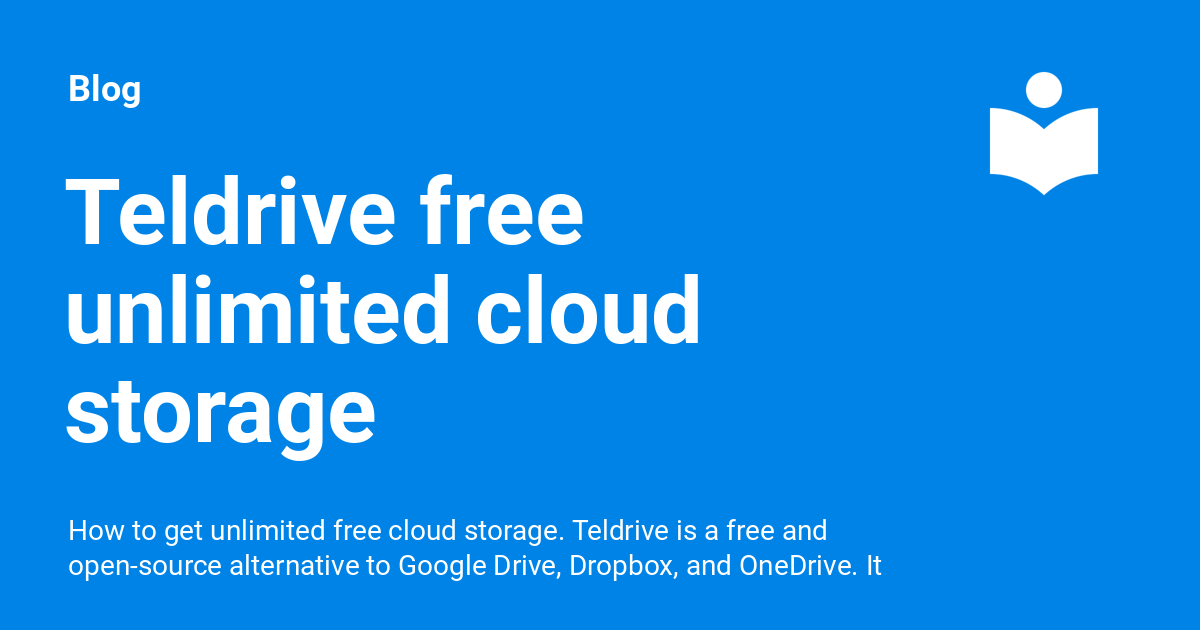
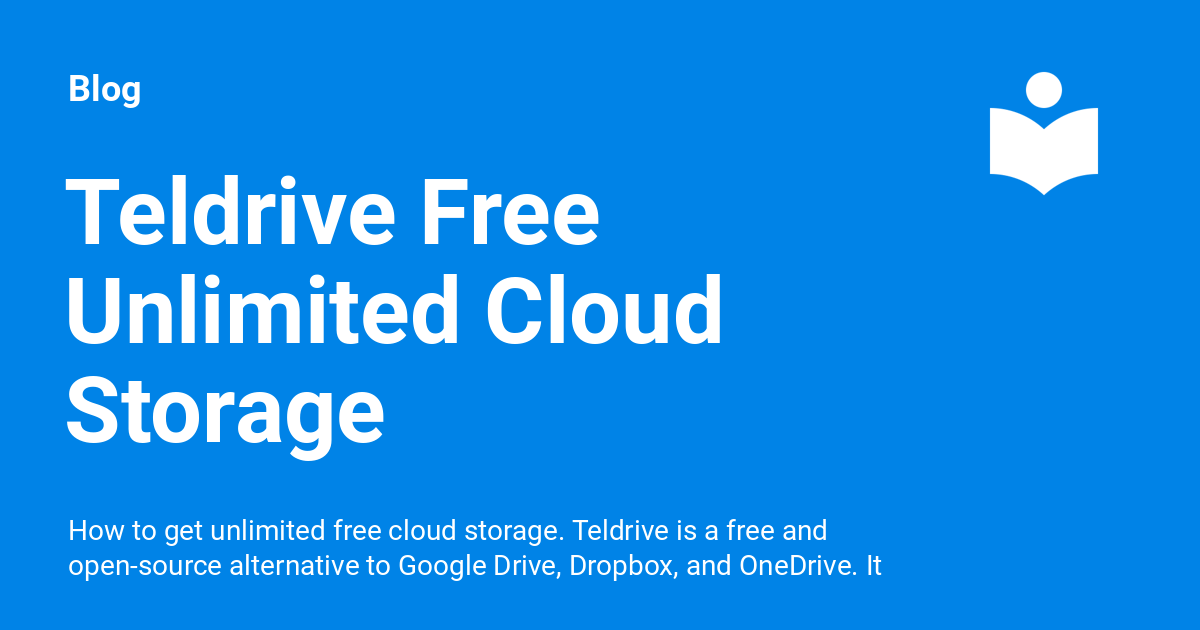
Deployed f70f004 with MkDocs version: 1.6.1

Changed region(s): [[0.0617, 0.4222, 0.6167, 0.5429], [0.0308, 0.573, 0.3392, 0.7238], [0.3392, 0.2714, 0.5242, 0.3921]]

diff --git a/apps/drive/teldrive-free-unlimited-cloud-storage/index.html b/apps/drive/teldrive-free-unlimited-cloud-storage/index.html
@@ -24,7 +24,7 @@
     
     
       
-        <title>Teldrive free unlimited cloud storage - Blog</title>
+        <title>Teldrive Free Unlimited Cloud Storage - Blog</title>
       
     
     
@@ -79,7 +79,7 @@
       
         <meta  property="og:type"  content="website" >
       
-        <meta  property="og:title"  content="Teldrive free unlimited cloud storage - Blog" >
+        <meta  property="og:title"  content="Teldrive Free Unlimited Cloud Storage - Blog" >
       
         <meta  property="og:description"  content="How to get unlimited free cloud storage. Teldrive is a free and open-source alternative to Google Drive, Dropbox, and OneDrive. It is a self-hosted file storage system that allows us to store our files in the cloud and share them with others." >
       
@@ -95,7 +95,7 @@
       
         <meta  name="twitter:card"  content="summary_large_image" >
       
-        <meta  name="twitter:title"  content="Teldrive free unlimited cloud storage - Blog" >
+        <meta  name="twitter:title"  content="Teldrive Free Unlimited Cloud Storage - Blog" >
       
         <meta  name="twitter:description"  content="How to get unlimited free cloud storage. Teldrive is a free and open-source alternative to Google Drive, Dropbox, and OneDrive. It is a self-hosted file storage system that allows us to store our files in the cloud and share them with others." >
       
@@ -167,7 +167,7 @@
         <div class="md-header__topic" data-md-component="header-topic">
           <span class="md-ellipsis">
             
-              Teldrive free unlimited cloud storage
+              Teldrive Free Unlimited Cloud Storage
             
           </span>
         </div>
@@ -999,7 +999,7 @@
     <svg xmlns="http://www.w3.org/2000/svg" viewBox="0 0 496 512"><!--! Font Awesome Free 6.7.1 by @fontawesome - https://fontawesome.com License - https://fontawesome.com/license/free (Icons: CC BY 4.0, Fonts: SIL OFL 1.1, Code: MIT License) Copyright 2024 Fonticons, Inc.--><path d="M248 8C111.033 8 0 119.033 0 256s111.033 248 248 248 248-111.033 248-248S384.967 8 248 8m114.952 168.66c-3.732 39.215-19.881 134.378-28.1 178.3-3.476 18.584-10.322 24.816-16.948 25.425-14.4 1.326-25.338-9.517-39.287-18.661-21.827-14.308-34.158-23.215-55.346-37.177-24.485-16.135-8.612-25 5.342-39.5 3.652-3.793 67.107-61.51 68.335-66.746.153-.655.3-3.1-1.154-4.384s-3.59-.849-5.135-.5q-3.283.746-104.608 69.142-14.845 10.194-26.894 9.934c-8.855-.191-25.888-5.006-38.551-9.123-15.531-5.048-27.875-7.717-26.8-16.291q.84-6.7 18.45-13.7 108.446-47.248 144.628-62.3c68.872-28.647 83.183-33.623 92.511-33.789 2.052-.034 6.639.474 9.61 2.885a10.45 10.45 0 0 1 3.53 6.716 43.8 43.8 0 0 1 .417 9.769"/></svg>
   
   <span class="md-ellipsis">
-    Teldrive free unlimited cloud storage
+    Teldrive Free Unlimited Cloud Storage
   </span>
   
 
@@ -1012,7 +1012,7 @@
     <svg xmlns="http://www.w3.org/2000/svg" viewBox="0 0 496 512"><!--! Font Awesome Free 6.7.1 by @fontawesome - https://fontawesome.com License - https://fontawesome.com/license/free (Icons: CC BY 4.0, Fonts: SIL OFL 1.1, Code: MIT License) Copyright 2024 Fonticons, Inc.--><path d="M248 8C111.033 8 0 119.033 0 256s111.033 248 248 248 248-111.033 248-248S384.967 8 248 8m114.952 168.66c-3.732 39.215-19.881 134.378-28.1 178.3-3.476 18.584-10.322 24.816-16.948 25.425-14.4 1.326-25.338-9.517-39.287-18.661-21.827-14.308-34.158-23.215-55.346-37.177-24.485-16.135-8.612-25 5.342-39.5 3.652-3.793 67.107-61.51 68.335-66.746.153-.655.3-3.1-1.154-4.384s-3.59-.849-5.135-.5q-3.283.746-104.608 69.142-14.845 10.194-26.894 9.934c-8.855-.191-25.888-5.006-38.551-9.123-15.531-5.048-27.875-7.717-26.8-16.291q.84-6.7 18.45-13.7 108.446-47.248 144.628-62.3c68.872-28.647 83.183-33.623 92.511-33.789 2.052-.034 6.639.474 9.61 2.885a10.45 10.45 0 0 1 3.53 6.716 43.8 43.8 0 0 1 .417 9.769"/></svg>
   
   <span class="md-ellipsis">
-    Teldrive free unlimited cloud storage
+    Teldrive Free Unlimited Cloud Storage
   </span>
   
 
@@ -1385,7 +1385,7 @@
     <span class="md-icon" title="Last update">
       <svg xmlns="http://www.w3.org/2000/svg" viewBox="0 0 24 24"><path d="M21 13.1c-.1 0-.3.1-.4.2l-1 1 2.1 2.1 1-1c.2-.2.2-.6 0-.8l-1.3-1.3c-.1-.1-.2-.2-.4-.2m-1.9 1.8-6.1 6V23h2.1l6.1-6.1zM12.5 7v5.2l4 2.4-1 1L11 13V7zM11 21.9c-5.1-.5-9-4.8-9-9.9C2 6.5 6.5 2 12 2c5.3 0 9.6 4.1 10 9.3-.3-.1-.6-.2-1-.2s-.7.1-1 .2C19.6 7.2 16.2 4 12 4c-4.4 0-8 3.6-8 8 0 4.1 3.1 7.5 7.1 7.9l-.1.2z"/></svg>
     </span>
-    <span class="git-revision-date-localized-plugin git-revision-date-localized-plugin-timeago"><span class="timeago" datetime="2024-12-05T19:19:30+00:00" locale="en"></span></span><span class="git-revision-date-localized-plugin git-revision-date-localized-plugin-iso_date">2024-12-05</span>
+    <span class="git-revision-date-localized-plugin git-revision-date-localized-plugin-timeago"><span class="timeago" datetime="2024-12-05T20:15:01+00:00" locale="en"></span></span><span class="git-revision-date-localized-plugin git-revision-date-localized-plugin-iso_date">2024-12-05</span>
   </span>
 
     

diff --git a/apps/xcode/xcode-how-to-customize-file-headers/index.html b/apps/xcode/xcode-how-to-customize-file-headers/index.html
@@ -1112,7 +1112,7 @@
     <svg xmlns="http://www.w3.org/2000/svg" viewBox="0 0 496 512"><!--! Font Awesome Free 6.7.1 by @fontawesome - https://fontawesome.com License - https://fontawesome.com/license/free (Icons: CC BY 4.0, Fonts: SIL OFL 1.1, Code: MIT License) Copyright 2024 Fonticons, Inc.--><path d="M248 8C111.033 8 0 119.033 0 256s111.033 248 248 248 248-111.033 248-248S384.967 8 248 8m114.952 168.66c-3.732 39.215-19.881 134.378-28.1 178.3-3.476 18.584-10.322 24.816-16.948 25.425-14.4 1.326-25.338-9.517-39.287-18.661-21.827-14.308-34.158-23.215-55.346-37.177-24.485-16.135-8.612-25 5.342-39.5 3.652-3.793 67.107-61.51 68.335-66.746.153-.655.3-3.1-1.154-4.384s-3.59-.849-5.135-.5q-3.283.746-104.608 69.142-14.845 10.194-26.894 9.934c-8.855-.191-25.888-5.006-38.551-9.123-15.531-5.048-27.875-7.717-26.8-16.291q.84-6.7 18.45-13.7 108.446-47.248 144.628-62.3c68.872-28.647 83.183-33.623 92.511-33.789 2.052-.034 6.639.474 9.61 2.885a10.45 10.45 0 0 1 3.53 6.716 43.8 43.8 0 0 1 .417 9.769"/></svg>
   
   <span class="md-ellipsis">
-    Teldrive free unlimited cloud storage
+    Teldrive Free Unlimited Cloud Storage
   </span>
   
 
@@ -1540,13 +1540,13 @@
         
         
           
-          <a href="../../drive/teldrive-free-unlimited-cloud-storage/" class="md-footer__link md-footer__link--next" aria-label="Next: Teldrive free unlimited cloud storage">
+          <a href="../../drive/teldrive-free-unlimited-cloud-storage/" class="md-footer__link md-footer__link--next" aria-label="Next: Teldrive Free Unlimited Cloud Storage">
             <div class="md-footer__title">
               <span class="md-footer__direction">
                 Next
               </span>
               <div class="md-ellipsis">
-                Teldrive free unlimited cloud storage
+                Teldrive Free Unlimited Cloud Storage
               </div>
             </div>
             <div class="md-footer__button md-icon">

diff --git a/linux/guides/opening-ports-on-oracle-cloud-instances/index.html b/linux/guides/opening-ports-on-oracle-cloud-instances/index.html
@@ -1052,7 +1052,7 @@
     <svg xmlns="http://www.w3.org/2000/svg" viewBox="0 0 496 512"><!--! Font Awesome Free 6.7.1 by @fontawesome - https://fontawesome.com License - https://fontawesome.com/license/free (Icons: CC BY 4.0, Fonts: SIL OFL 1.1, Code: MIT License) Copyright 2024 Fonticons, Inc.--><path d="M248 8C111.033 8 0 119.033 0 256s111.033 248 248 248 248-111.033 248-248S384.967 8 248 8m114.952 168.66c-3.732 39.215-19.881 134.378-28.1 178.3-3.476 18.584-10.322 24.816-16.948 25.425-14.4 1.326-25.338-9.517-39.287-18.661-21.827-14.308-34.158-23.215-55.346-37.177-24.485-16.135-8.612-25 5.342-39.5 3.652-3.793 67.107-61.51 68.335-66.746.153-.655.3-3.1-1.154-4.384s-3.59-.849-5.135-.5q-3.283.746-104.608 69.142-14.845 10.194-26.894 9.934c-8.855-.191-25.888-5.006-38.551-9.123-15.531-5.048-27.875-7.717-26.8-16.291q.84-6.7 18.45-13.7 108.446-47.248 144.628-62.3c68.872-28.647 83.183-33.623 92.511-33.789 2.052-.034 6.639.474 9.61 2.885a10.45 10.45 0 0 1 3.53 6.716 43.8 43.8 0 0 1 .417 9.769"/></svg>
   
   <span class="md-ellipsis">
-    Teldrive free unlimited cloud storage
+    Teldrive Free Unlimited Cloud Storage
   </span>
   
 

diff --git a/swift/continued-learning/extensions-in-swift/index.html b/swift/continued-learning/extensions-in-swift/index.html
@@ -1145,7 +1145,7 @@
     <svg xmlns="http://www.w3.org/2000/svg" viewBox="0 0 496 512"><!--! Font Awesome Free 6.7.1 by @fontawesome - https://fontawesome.com License - https://fontawesome.com/license/free (Icons: CC BY 4.0, Fonts: SIL OFL 1.1, Code: MIT License) Copyright 2024 Fonticons, Inc.--><path d="M248 8C111.033 8 0 119.033 0 256s111.033 248 248 248 248-111.033 248-248S384.967 8 248 8m114.952 168.66c-3.732 39.215-19.881 134.378-28.1 178.3-3.476 18.584-10.322 24.816-16.948 25.425-14.4 1.326-25.338-9.517-39.287-18.661-21.827-14.308-34.158-23.215-55.346-37.177-24.485-16.135-8.612-25 5.342-39.5 3.652-3.793 67.107-61.51 68.335-66.746.153-.655.3-3.1-1.154-4.384s-3.59-.849-5.135-.5q-3.283.746-104.608 69.142-14.845 10.194-26.894 9.934c-8.855-.191-25.888-5.006-38.551-9.123-15.531-5.048-27.875-7.717-26.8-16.291q.84-6.7 18.45-13.7 108.446-47.248 144.628-62.3c68.872-28.647 83.183-33.623 92.511-33.789 2.052-.034 6.639.474 9.61 2.885a10.45 10.45 0 0 1 3.53 6.716 43.8 43.8 0 0 1 .417 9.769"/></svg>
   
   <span class="md-ellipsis">
-    Teldrive free unlimited cloud storage
+    Teldrive Free Unlimited Cloud Storage
   </span>
   
 

diff --git a/swiftui/continued-learning/how-to-add-custom-fonts-in-swiftui/index.html b/swiftui/continued-learning/how-to-add-custom-fonts-in-swiftui/index.html
@@ -1103,7 +1103,7 @@
     <svg xmlns="http://www.w3.org/2000/svg" viewBox="0 0 496 512"><!--! Font Awesome Free 6.7.1 by @fontawesome - https://fontawesome.com License - https://fontawesome.com/license/free (Icons: CC BY 4.0, Fonts: SIL OFL 1.1, Code: MIT License) Copyright 2024 Fonticons, Inc.--><path d="M248 8C111.033 8 0 119.033 0 256s111.033 248 248 248 248-111.033 248-248S384.967 8 248 8m114.952 168.66c-3.732 39.215-19.881 134.378-28.1 178.3-3.476 18.584-10.322 24.816-16.948 25.425-14.4 1.326-25.338-9.517-39.287-18.661-21.827-14.308-34.158-23.215-55.346-37.177-24.485-16.135-8.612-25 5.342-39.5 3.652-3.793 67.107-61.51 68.335-66.746.153-.655.3-3.1-1.154-4.384s-3.59-.849-5.135-.5q-3.283.746-104.608 69.142-14.845 10.194-26.894 9.934c-8.855-.191-25.888-5.006-38.551-9.123-15.531-5.048-27.875-7.717-26.8-16.291q.84-6.7 18.45-13.7 108.446-47.248 144.628-62.3c68.872-28.647 83.183-33.623 92.511-33.789 2.052-.034 6.639.474 9.61 2.885a10.45 10.45 0 0 1 3.53 6.716 43.8 43.8 0 0 1 .417 9.769"/></svg>
   
   <span class="md-ellipsis">
-    Teldrive free unlimited cloud storage
+    Teldrive Free Unlimited Cloud Storage
   </span>
   
 

diff --git a/swiftui/getting-started/swiftui-text/index.html b/swiftui/getting-started/swiftui-text/index.html
@@ -1121,7 +1121,7 @@
     <svg xmlns="http://www.w3.org/2000/svg" viewBox="0 0 496 512"><!--! Font Awesome Free 6.7.1 by @fontawesome - https://fontawesome.com License - https://fontawesome.com/license/free (Icons: CC BY 4.0, Fonts: SIL OFL 1.1, Code: MIT License) Copyright 2024 Fonticons, Inc.--><path d="M248 8C111.033 8 0 119.033 0 256s111.033 248 248 248 248-111.033 248-248S384.967 8 248 8m114.952 168.66c-3.732 39.215-19.881 134.378-28.1 178.3-3.476 18.584-10.322 24.816-16.948 25.425-14.4 1.326-25.338-9.517-39.287-18.661-21.827-14.308-34.158-23.215-55.346-37.177-24.485-16.135-8.612-25 5.342-39.5 3.652-3.793 67.107-61.51 68.335-66.746.153-.655.3-3.1-1.154-4.384s-3.59-.849-5.135-.5q-3.283.746-104.608 69.142-14.845 10.194-26.894 9.934c-8.855-.191-25.888-5.006-38.551-9.123-15.531-5.048-27.875-7.717-26.8-16.291q.84-6.7 18.45-13.7 108.446-47.248 144.628-62.3c68.872-28.647 83.183-33.623 92.511-33.789 2.052-.034 6.639.474 9.61 2.885a10.45 10.45 0 0 1 3.53 6.716 43.8 43.8 0 0 1 .417 9.769"/></svg>
   
   <span class="md-ellipsis">
-    Teldrive free unlimited cloud storage
+    Teldrive Free Unlimited Cloud Storage
   </span>
   
 

diff --git a/404.html b/404.html
@@ -942,7 +942,7 @@
     <svg xmlns="http://www.w3.org/2000/svg" viewBox="0 0 496 512"><!--! Font Awesome Free 6.7.1 by @fontawesome - https://fontawesome.com License - https://fontawesome.com/license/free (Icons: CC BY 4.0, Fonts: SIL OFL 1.1, Code: MIT License) Copyright 2024 Fonticons, Inc.--><path d="M248 8C111.033 8 0 119.033 0 256s111.033 248 248 248 248-111.033 248-248S384.967 8 248 8m114.952 168.66c-3.732 39.215-19.881 134.378-28.1 178.3-3.476 18.584-10.322 24.816-16.948 25.425-14.4 1.326-25.338-9.517-39.287-18.661-21.827-14.308-34.158-23.215-55.346-37.177-24.485-16.135-8.612-25 5.342-39.5 3.652-3.793 67.107-61.51 68.335-66.746.153-.655.3-3.1-1.154-4.384s-3.59-.849-5.135-.5q-3.283.746-104.608 69.142-14.845 10.194-26.894 9.934c-8.855-.191-25.888-5.006-38.551-9.123-15.531-5.048-27.875-7.717-26.8-16.291q.84-6.7 18.45-13.7 108.446-47.248 144.628-62.3c68.872-28.647 83.183-33.623 92.511-33.789 2.052-.034 6.639.474 9.61 2.885a10.45 10.45 0 0 1 3.53 6.716 43.8 43.8 0 0 1 .417 9.769"/></svg>
   
   <span class="md-ellipsis">
-    Teldrive free unlimited cloud storage
+    Teldrive Free Unlimited Cloud Storage
   </span>
   
 

diff --git a/apps/index.html b/apps/index.html
@@ -990,7 +990,7 @@
     <svg xmlns="http://www.w3.org/2000/svg" viewBox="0 0 496 512"><!--! Font Awesome Free 6.7.1 by @fontawesome - https://fontawesome.com License - https://fontawesome.com/license/free (Icons: CC BY 4.0, Fonts: SIL OFL 1.1, Code: MIT License) Copyright 2024 Fonticons, Inc.--><path d="M248 8C111.033 8 0 119.033 0 256s111.033 248 248 248 248-111.033 248-248S384.967 8 248 8m114.952 168.66c-3.732 39.215-19.881 134.378-28.1 178.3-3.476 18.584-10.322 24.816-16.948 25.425-14.4 1.326-25.338-9.517-39.287-18.661-21.827-14.308-34.158-23.215-55.346-37.177-24.485-16.135-8.612-25 5.342-39.5 3.652-3.793 67.107-61.51 68.335-66.746.153-.655.3-3.1-1.154-4.384s-3.59-.849-5.135-.5q-3.283.746-104.608 69.142-14.845 10.194-26.894 9.934c-8.855-.191-25.888-5.006-38.551-9.123-15.531-5.048-27.875-7.717-26.8-16.291q.84-6.7 18.45-13.7 108.446-47.248 144.628-62.3c68.872-28.647 83.183-33.623 92.511-33.789 2.052-.034 6.639.474 9.61 2.885a10.45 10.45 0 0 1 3.53 6.716 43.8 43.8 0 0 1 .417 9.769"/></svg>
   
   <span class="md-ellipsis">
-    Teldrive free unlimited cloud storage
+    Teldrive Free Unlimited Cloud Storage
   </span>
   
 

diff --git a/index.html b/index.html
@@ -984,7 +984,7 @@
     <svg xmlns="http://www.w3.org/2000/svg" viewBox="0 0 496 512"><!--! Font Awesome Free 6.7.1 by @fontawesome - https://fontawesome.com License - https://fontawesome.com/license/free (Icons: CC BY 4.0, Fonts: SIL OFL 1.1, Code: MIT License) Copyright 2024 Fonticons, Inc.--><path d="M248 8C111.033 8 0 119.033 0 256s111.033 248 248 248 248-111.033 248-248S384.967 8 248 8m114.952 168.66c-3.732 39.215-19.881 134.378-28.1 178.3-3.476 18.584-10.322 24.816-16.948 25.425-14.4 1.326-25.338-9.517-39.287-18.661-21.827-14.308-34.158-23.215-55.346-37.177-24.485-16.135-8.612-25 5.342-39.5 3.652-3.793 67.107-61.51 68.335-66.746.153-.655.3-3.1-1.154-4.384s-3.59-.849-5.135-.5q-3.283.746-104.608 69.142-14.845 10.194-26.894 9.934c-8.855-.191-25.888-5.006-38.551-9.123-15.531-5.048-27.875-7.717-26.8-16.291q.84-6.7 18.45-13.7 108.446-47.248 144.628-62.3c68.872-28.647 83.183-33.623 92.511-33.789 2.052-.034 6.639.474 9.61 2.885a10.45 10.45 0 0 1 3.53 6.716 43.8 43.8 0 0 1 .417 9.769"/></svg>
   
   <span class="md-ellipsis">
-    Teldrive free unlimited cloud storage
+    Teldrive Free Unlimited Cloud Storage
   </span>
   
 

diff --git a/linux/index.html b/linux/index.html
@@ -990,7 +990,7 @@
     <svg xmlns="http://www.w3.org/2000/svg" viewBox="0 0 496 512"><!--! Font Awesome Free 6.7.1 by @fontawesome - https://fontawesome.com License - https://fontawesome.com/license/free (Icons: CC BY 4.0, Fonts: SIL OFL 1.1, Code: MIT License) Copyright 2024 Fonticons, Inc.--><path d="M248 8C111.033 8 0 119.033 0 256s111.033 248 248 248 248-111.033 248-248S384.967 8 248 8m114.952 168.66c-3.732 39.215-19.881 134.378-28.1 178.3-3.476 18.584-10.322 24.816-16.948 25.425-14.4 1.326-25.338-9.517-39.287-18.661-21.827-14.308-34.158-23.215-55.346-37.177-24.485-16.135-8.612-25 5.342-39.5 3.652-3.793 67.107-61.51 68.335-66.746.153-.655.3-3.1-1.154-4.384s-3.59-.849-5.135-.5q-3.283.746-104.608 69.142-14.845 10.194-26.894 9.934c-8.855-.191-25.888-5.006-38.551-9.123-15.531-5.048-27.875-7.717-26.8-16.291q.84-6.7 18.45-13.7 108.446-47.248 144.628-62.3c68.872-28.647 83.183-33.623 92.511-33.789 2.052-.034 6.639.474 9.61 2.885a10.45 10.45 0 0 1 3.53 6.716 43.8 43.8 0 0 1 .417 9.769"/></svg>
   
   <span class="md-ellipsis">
-    Teldrive free unlimited cloud storage
+    Teldrive Free Unlimited Cloud Storage
   </span>
   
 

diff --git a/swift/index.html b/swift/index.html
@@ -988,7 +988,7 @@
     <svg xmlns="http://www.w3.org/2000/svg" viewBox="0 0 496 512"><!--! Font Awesome Free 6.7.1 by @fontawesome - https://fontawesome.com License - https://fontawesome.com/license/free (Icons: CC BY 4.0, Fonts: SIL OFL 1.1, Code: MIT License) Copyright 2024 Fonticons, Inc.--><path d="M248 8C111.033 8 0 119.033 0 256s111.033 248 248 248 248-111.033 248-248S384.967 8 248 8m114.952 168.66c-3.732 39.215-19.881 134.378-28.1 178.3-3.476 18.584-10.322 24.816-16.948 25.425-14.4 1.326-25.338-9.517-39.287-18.661-21.827-14.308-34.158-23.215-55.346-37.177-24.485-16.135-8.612-25 5.342-39.5 3.652-3.793 67.107-61.51 68.335-66.746.153-.655.3-3.1-1.154-4.384s-3.59-.849-5.135-.5q-3.283.746-104.608 69.142-14.845 10.194-26.894 9.934c-8.855-.191-25.888-5.006-38.551-9.123-15.531-5.048-27.875-7.717-26.8-16.291q.84-6.7 18.45-13.7 108.446-47.248 144.628-62.3c68.872-28.647 83.183-33.623 92.511-33.789 2.052-.034 6.639.474 9.61 2.885a10.45 10.45 0 0 1 3.53 6.716 43.8 43.8 0 0 1 .417 9.769"/></svg>
   
   <span class="md-ellipsis">
-    Teldrive free unlimited cloud storage
+    Teldrive Free Unlimited Cloud Storage
   </span>
   
 

diff --git a/swiftui/index.html b/swiftui/index.html
@@ -990,7 +990,7 @@
     <svg xmlns="http://www.w3.org/2000/svg" viewBox="0 0 496 512"><!--! Font Awesome Free 6.7.1 by @fontawesome - https://fontawesome.com License - https://fontawesome.com/license/free (Icons: CC BY 4.0, Fonts: SIL OFL 1.1, Code: MIT License) Copyright 2024 Fonticons, Inc.--><path d="M248 8C111.033 8 0 119.033 0 256s111.033 248 248 248 248-111.033 248-248S384.967 8 248 8m114.952 168.66c-3.732 39.215-19.881 134.378-28.1 178.3-3.476 18.584-10.322 24.816-16.948 25.425-14.4 1.326-25.338-9.517-39.287-18.661-21.827-14.308-34.158-23.215-55.346-37.177-24.485-16.135-8.612-25 5.342-39.5 3.652-3.793 67.107-61.51 68.335-66.746.153-.655.3-3.1-1.154-4.384s-3.59-.849-5.135-.5q-3.283.746-104.608 69.142-14.845 10.194-26.894 9.934c-8.855-.191-25.888-5.006-38.551-9.123-15.531-5.048-27.875-7.717-26.8-16.291q.84-6.7 18.45-13.7 108.446-47.248 144.628-62.3c68.872-28.647 83.183-33.623 92.511-33.789 2.052-.034 6.639.474 9.61 2.885a10.45 10.45 0 0 1 3.53 6.716 43.8 43.8 0 0 1 .417 9.769"/></svg>
   
   <span class="md-ellipsis">
-    Teldrive free unlimited cloud storage
+    Teldrive Free Unlimited Cloud Storage
   </span>
   
 
